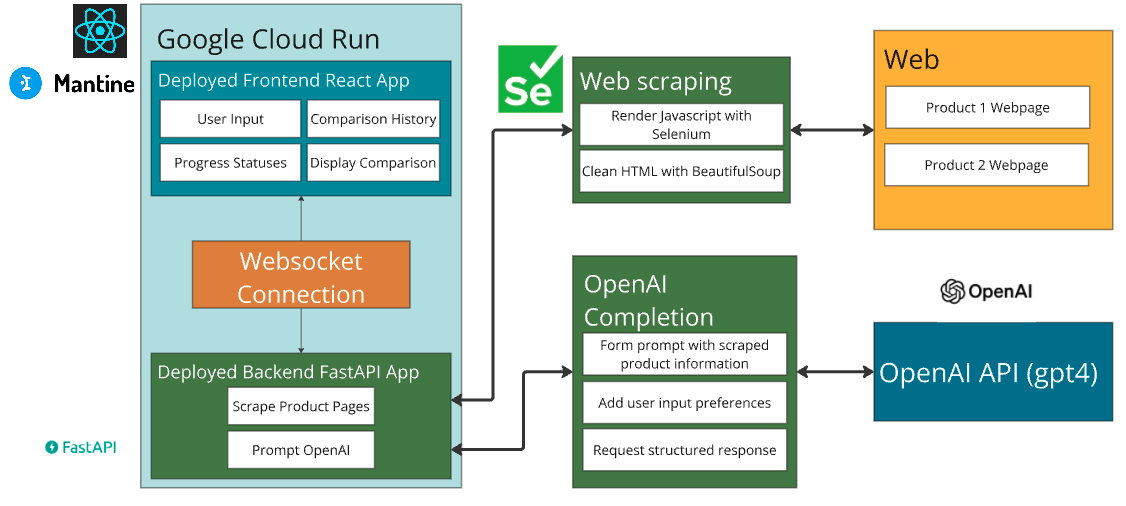
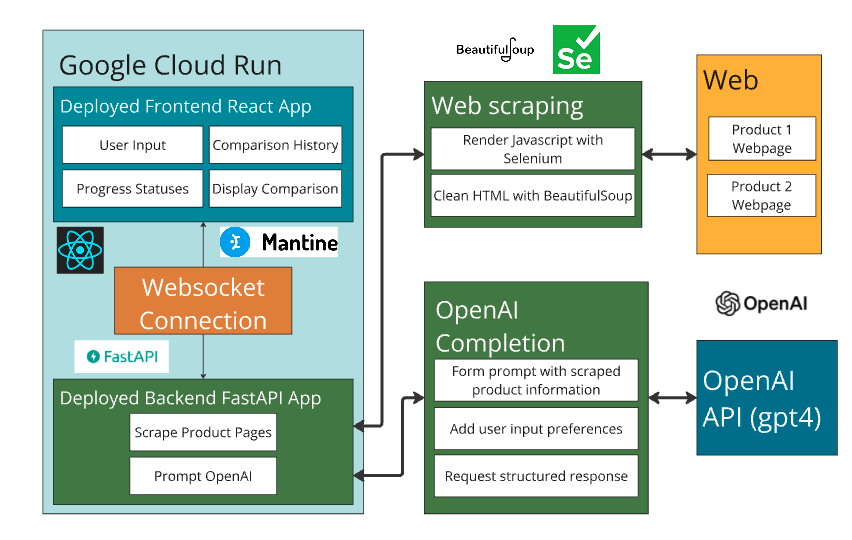
filled out about page

diff --git a/src/pages/AboutPage.js b/src/pages/AboutPage.js
@@ -1,5 +1,5 @@
 import React, { useState, useEffect, useRef } from 'react';
-import { Progress, Grid, Button, Text, Title, Group, Box, Stack, Container, Space, Center, List, Anchor, Image } from '@mantine/core';
+import { Progress, Grid, Button, Text, Title, Group, Box, Stack, Container, Space, Center, List, Anchor, Image, Card } from '@mantine/core';
 
 const AboutPage = () => {
 
@@ -52,15 +52,53 @@ const AboutPage = () => {
           </Center>
           
           <Grid.Col span={{ base: 12, md: 6 }}>
-            <Title mb="20px" c="cyan" order={2}>Quibble Architecture</Title>
-            <Image src="/quibblearchitecture.png" h={275} alt="architecture" />
-            </Grid.Col>
+            <Title mb="20px" c="cyan" order={2}>Quibble's Tech Stack</Title>
+            <List size="sm" mb="10px">
+              <List.Item> 
+                <Text>
+                  The frontend of Quibble is built using <Anchor c="cyan" href="https://react.dev/" target="_blank" underline="hover">React</Anchor>, 
+                  leveraging <Anchor c="cyan" href="https://mantine.dev/" target="_blank" underline="hover">Mantine</Anchor> components for a modern, responsive, and accessible user interface.
+                </Text>
+              </List.Item>
+              <List.Item> 
+                <Text>
+                  The backend of Quibble is powered by <Anchor c="cyan" href="https://fastapi.tiangolo.com/" target="_blank" underline="hover">FastAPI</Anchor> for high-performance APIs and uses  <Anchor c="cyan" href="https://www.selenium.dev/" target="_blank" underline="hover">Selenium</Anchor> for dynamic web scraping and automation tasks.
+                </Text>                
+              </List.Item>
+              <List.Item>
+                <Text> 
+                  Frontend and backend connected via <Anchor c="cyan" href="https://fastapi.tiangolo.com/reference/websockets/" target="_blank" underline="hover">websockets</Anchor>.
+                </Text>
+              </List.Item>
+            </List>
+            <Image src="/quibblearchitecture.png" h={350} alt="logo" />
+            <Space h="md" />
+            <Title mb="20px" c="cyan" order={2}>Fork It, Run It, Love It</Title>
+            <List size="sm" mb="10px">
+              <List.Item> 
+                <Text>Quibble <Anchor c="cyan" href="https://github.com/dscottd7/quibble-frontend" target="_blank" underline="hover">Frontend</Anchor> and <Anchor c="cyan" href="https://github.com/dscottd7/quibble-backend" target="_blank" underline="hover">Backend</Anchor> on GitHub.
+                </Text>
+              </List.Item>
+              <List.Item> 
+                <Text>Quibble <Anchor c="cyan" href="https://hub.docker.com/r/jbh14/quibble-frontend/tags" target="_blank" underline="hover">Frontend</Anchor> and <Anchor c="cyan" href="https://hub.docker.com/r/jbh14/quibble-backend/tags" target="_blank" underline="hover">Backend</Anchor> Docker Images.
+                </Text>
+              </List.Item>
+              <List.Item> 
+                <Text>Quibble Backend Deployed to <Anchor c="cyan" href="https://quibble-backend-64265842032.us-central1.run.app" target="_blank" underline="hover">Google Cloud Run</Anchor> <Anchor c="cyan" href="https://quibble-backend-64265842032.us-central1.run.app/docs" target="_blank" underline="hover">(swagger docs)</Anchor>.
+                </Text>
+              </List.Item>
+            </List>
+
+          
+          </Grid.Col>
 
             <Grid.Col span={{ base: 12, md: 6 }}>
-            <Title mb="20px" c="cyan" order={2}>About the authors</Title>
-            <Text size="sm" c="dimmed" mb="10px">
-              <p>Quibble was started as a capstone project for Oregon State University's CS 467, Fall 2024.</p>
-              <p>The Quibble team is:</p>
+            <Title mb="20px" c="cyan" order={2}>The Quibble Crew</Title>
+            
+              <Text>
+                Quibble was started as a capstone project for Oregon State University's CS 467, Fall 2024.
+                The Quibble team is:
+              </Text>
               <List size="sm" mb="10px">
                 <List.Item> 
                   <Anchor c="cyan" href="https://www.linkedin.com/in/dscottdiperna/" target="_blank" underline="hover">Scott DiPerna</Anchor>
@@ -75,7 +113,57 @@ const AboutPage = () => {
                   <Anchor c="cyan" href="https://www.linkedin.com/in/joseph-brendan-heinz-92353976/" target="_blank" underline="hover">Brendan Heinz</Anchor>
                 </List.Item>
               </List>
-            </Text>
+              <Space h="md" />
+
+              <Grid gutter="lg">
+                {/* Row 1 */}
+                <Grid.Col span={{ base: 12, md: 6 }}>
+                  <Card shadow="sm" padding="lg">
+                    <Card.Section>
+                      <Image src="https://ca.slack-edge.com/T04DSF0LW-U07PEJ0Q0GM-a3169e6d74ba-512" h={200} alt="Scott DiPerna" />
+                    </Card.Section>
+                    <Title order={4} mt="md">
+                      <Anchor c="cyan" href="https://www.linkedin.com/in/dscottdiperna/" target="_blank" underline="hover">Scott DiPerna</Anchor>
+                    </Title>
+                  </Card>
+                </Grid.Col>
+
+                <Grid.Col span={{ base: 12, md: 6 }}>
+                  <Card shadow="sm" padding="lg">
+                    <Card.Section>
+                      <Image src="https://ca.slack-edge.com/T04DSF0LW-U07PEJ0Q0GM-a3169e6d74ba-512" h={200} alt="Xinrui Hou" />
+                    </Card.Section>
+                    <Title order={4} mt="md">
+                      <Anchor c="cyan" href="https://www.linkedin.com/in/xinruihou/" target="_blank" underline="hover">Xinrui Hou</Anchor>
+                    </Title>
+                  </Card>
+                </Grid.Col>
+
+                {/* Row 2 */}
+                <Grid.Col span={{ base: 12, md: 6 }}>
+                  <Card shadow="sm" padding="lg">
+                    <Card.Section>
+                      <Image src="https://ca.slack-edge.com/T04DSF0LW-U07PEJ0Q0GM-a3169e6d74ba-512" h={200} alt="Edward Mai" />
+                    </Card.Section>
+                    <Title order={4} mt="md">
+                      <Anchor c="cyan" href="https://www.linkedin.com/in/edward-mai/" target="_blank" underline="hover">Edward Mai</Anchor>
+                    </Title>
+                  </Card>
+                </Grid.Col>
+
+                <Grid.Col span={{ base: 12, md: 6 }}>
+                  <Card shadow="sm" padding="lg">
+                    <Card.Section>
+                      <Image src="/brendan.jpg" h={200} alt="Brendan Heinz" />
+                    </Card.Section>
+                    <Title order={4} mt="md">
+                      <Anchor c="cyan" href="https://www.linkedin.com/in/joseph-brendan-heinz-92353976/" target="_blank" underline="hover">Brendan Heinz</Anchor>
+                    </Title>
+                  </Card>
+                </Grid.Col>
+              
+              </Grid>
+            
           </Grid.Col>
         </Grid>
       </Box>
